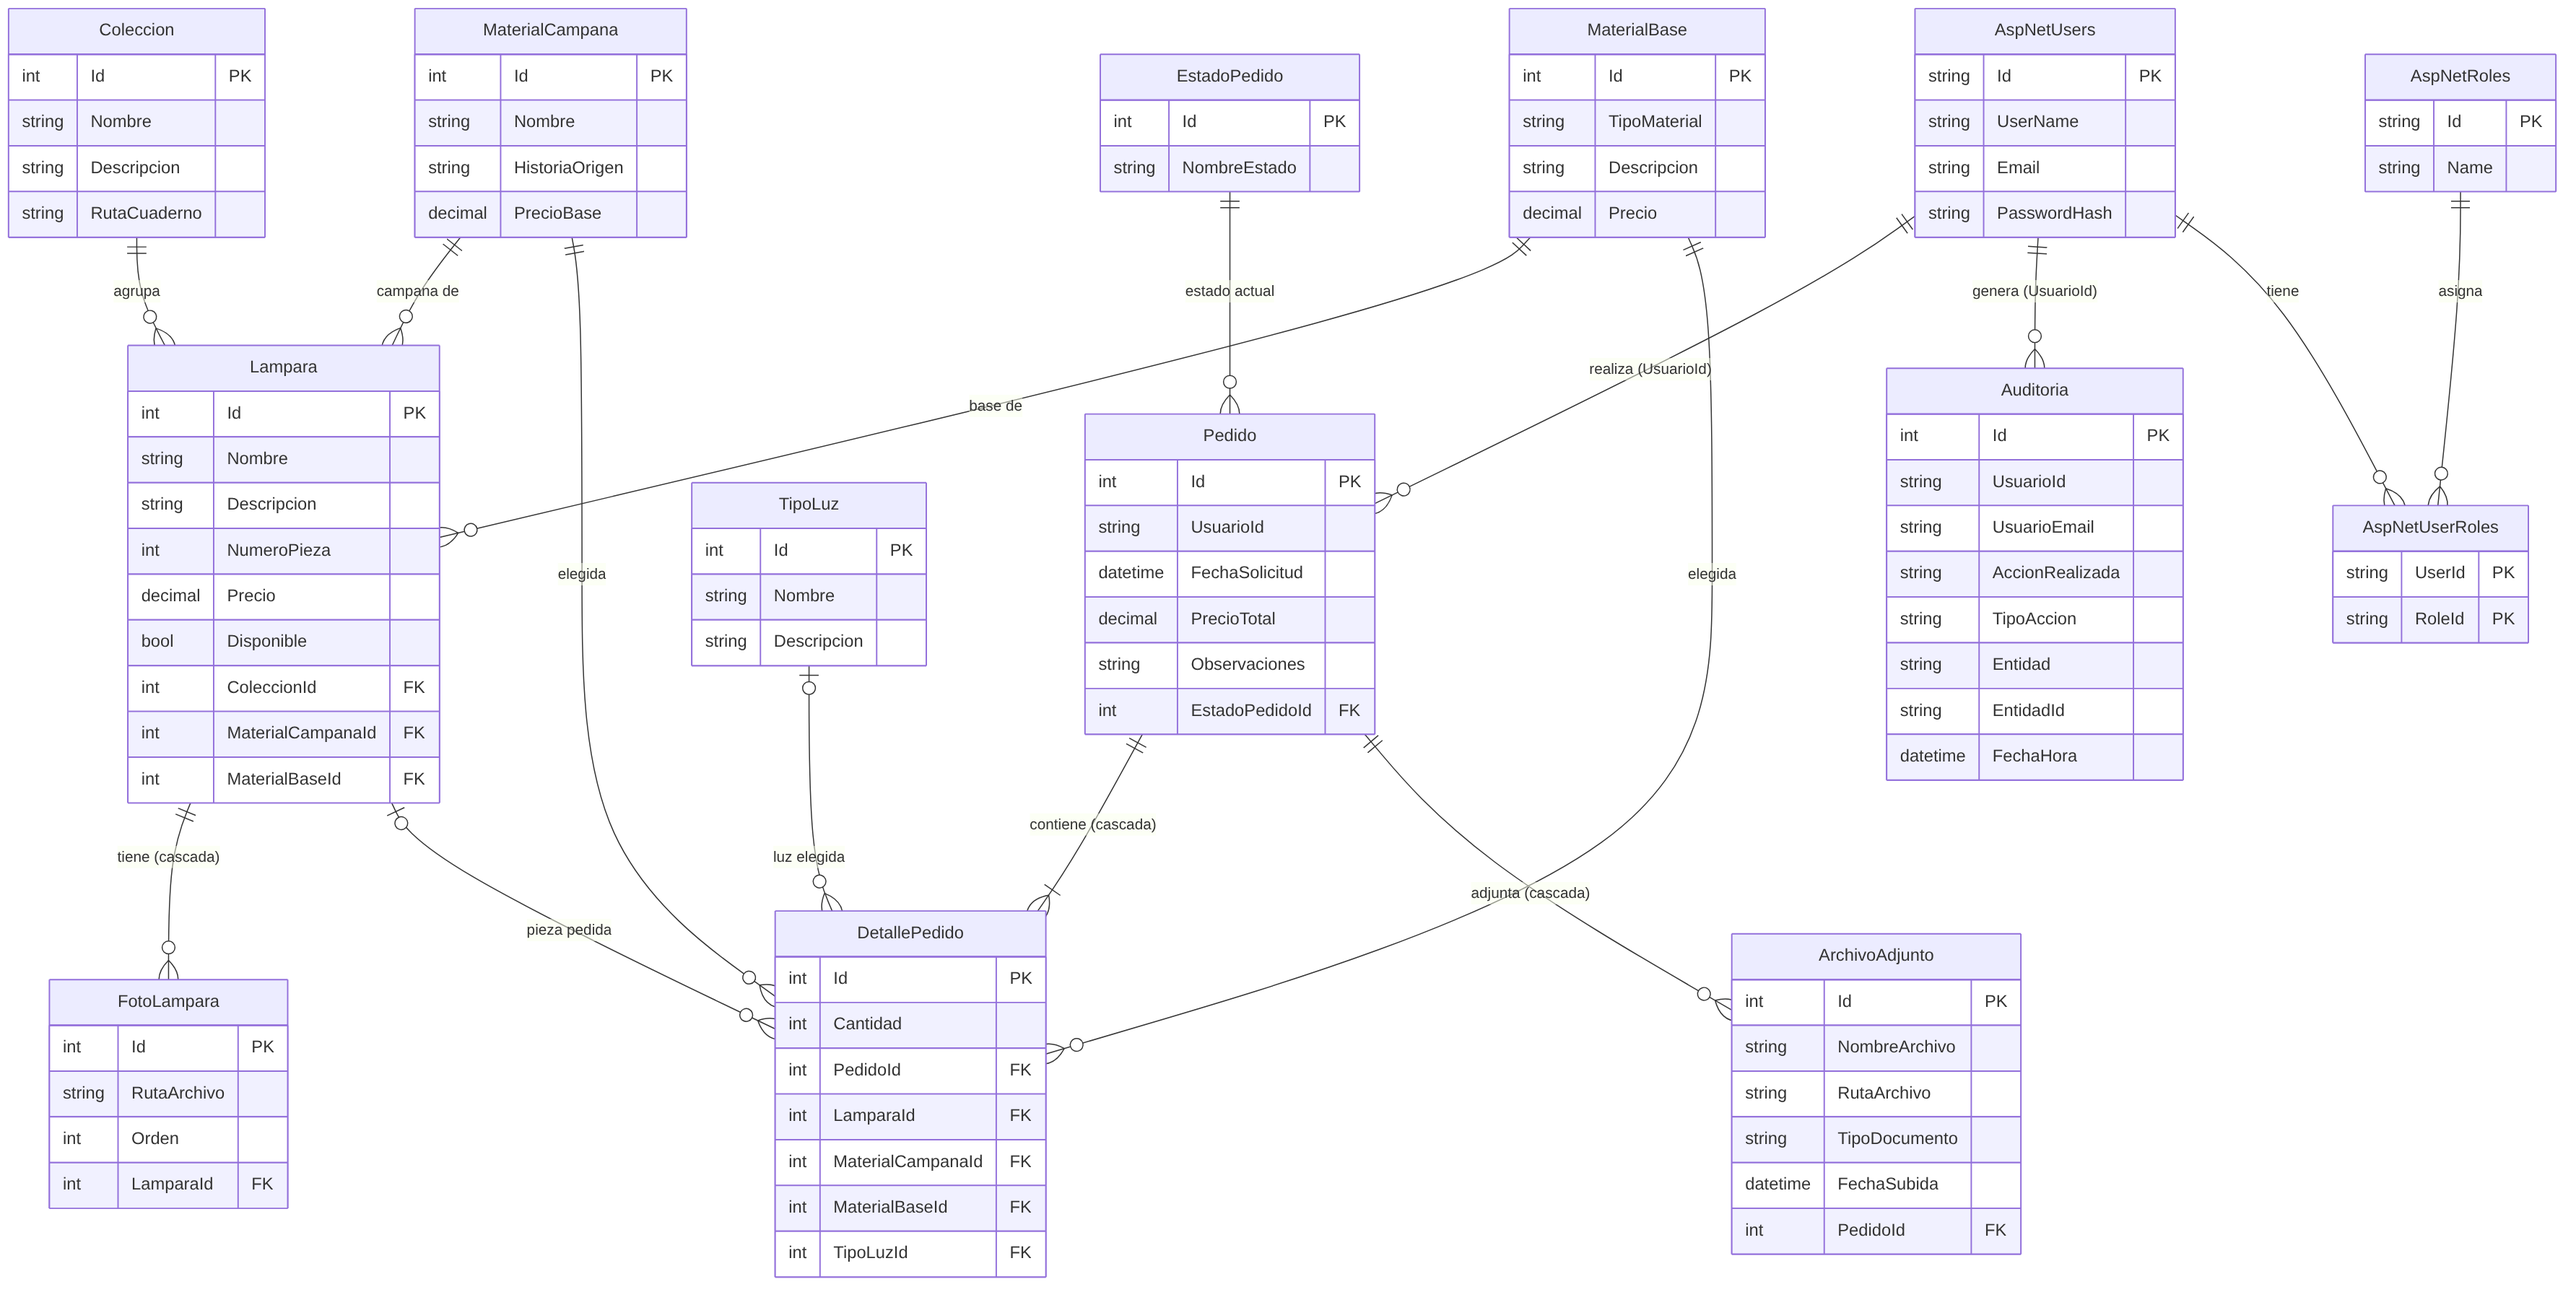
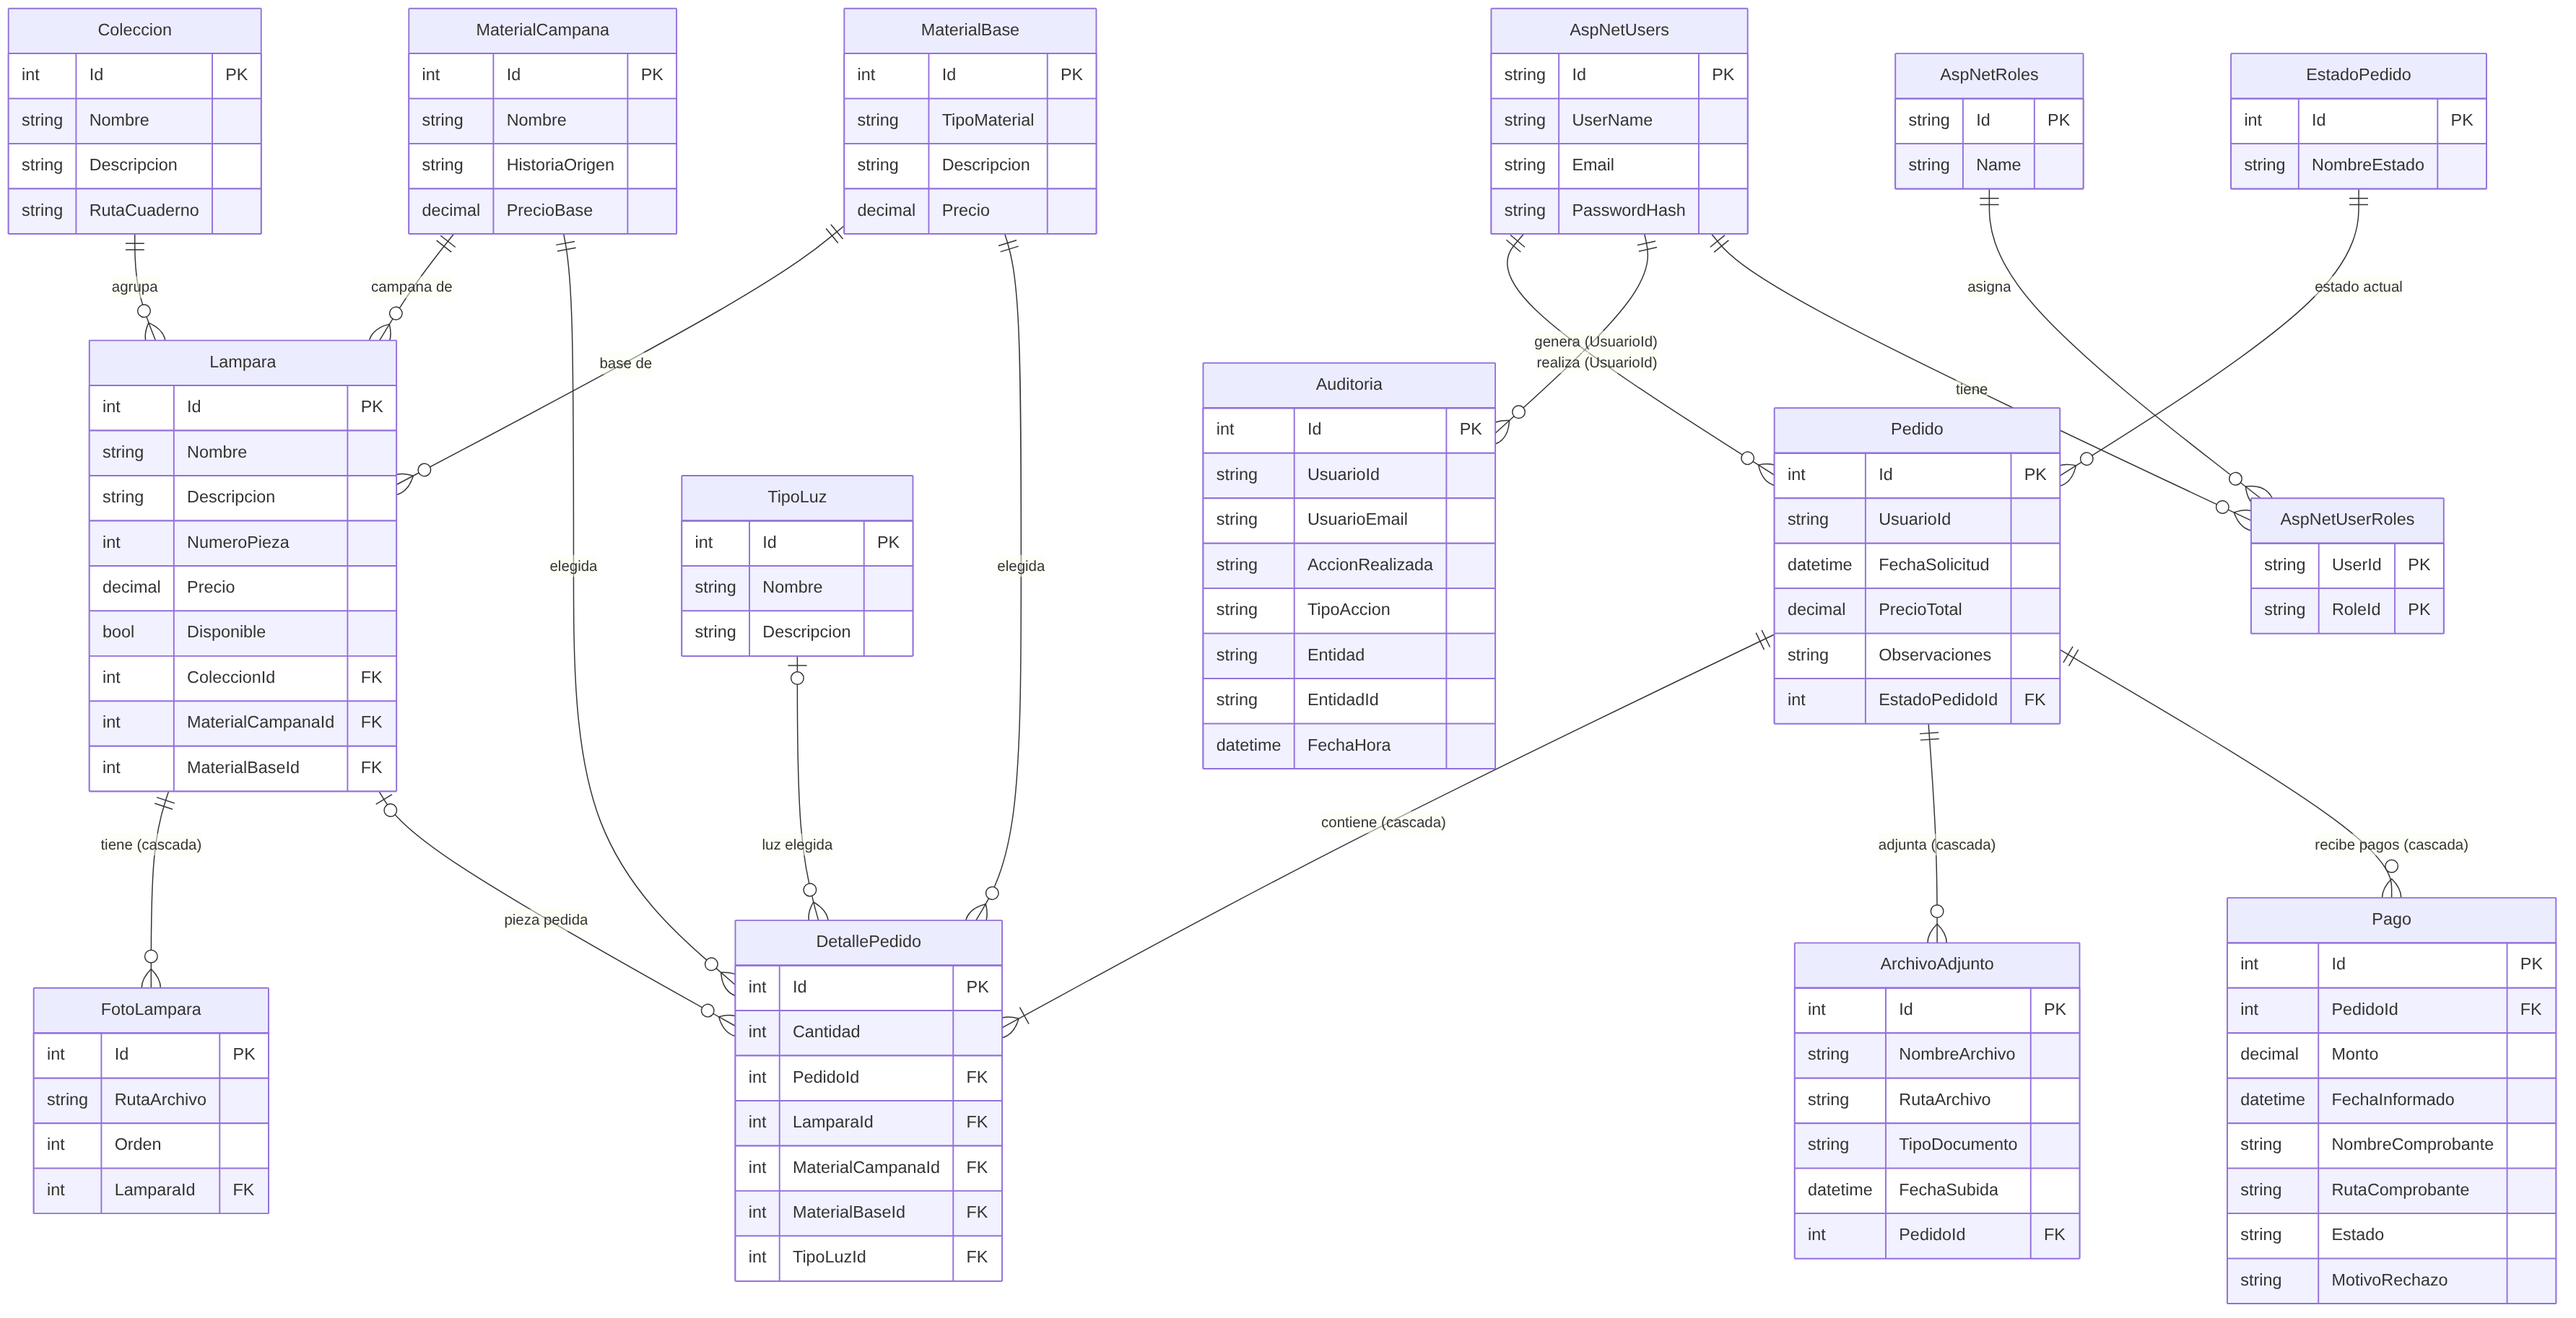
DER y README actualizados con pagos, panel y reporte con IA

diff --git a/README.md b/README.md
@@ -1,6 +1,6 @@
 # Alma del Mar Pampeano
 
-Aplicación web en **ASP.NET Core MVC (.NET 10)** para una marca de lámparas artesanales de roca, fósil y madera pampeana (La Pampa, Argentina). El visitante recorre un catálogo con las piezas terminadas, el cliente puede pedir una pieza o diseñar una lámpara a medida y seguir el estado de su pedido, y el administrador gestiona el catálogo, los pedidos y la auditoría del sistema.
+Aplicación web en **ASP.NET Core MVC (.NET 10)** para una marca de lámparas artesanales de roca, fósil y madera pampeana (La Pampa, Argentina). El visitante recorre el catálogo, el cliente pide una pieza terminada o diseña una lámpara a medida, informa su pago con un comprobante y sigue el estado del pedido. El administrador gestiona el catálogo, los pedidos, los pagos y los usuarios, y cuenta con un panel de estadísticas con un reporte redactado por IA.
 
 > Trabajo Final Integrador — ASP.NET Core MVC.
 
@@ -12,27 +12,29 @@ Aplicación web en **ASP.NET Core MVC (.NET 10)** para una marca de lámparas ar
 - ASP.NET Core MVC + Razor (.NET 10), Bootstrap 5, jQuery Validation, SweetAlert2
 - Entity Framework Core (Code First, migraciones) sobre **SQL Server**
 - ASP.NET Core Identity con roles (`Administrador`, `Cliente`)
-- Chatbot con la API de Gemini (Google)
+- API de Google Gemini (asistente virtual y reporte para el administrador)
 
 ## Funcionalidades
 
 ### Para cualquier visitante
 - **Inicio** con portada, colecciones, un adelanto de lámparas y los cuadernos de colección (PDF).
 - **Página de lámparas** con todas las piezas, filtro por colección y fotos en carrusel.
-- **Lumi**, el asistente virtual: responde dudas sobre la marca, las colecciones y cómo pedir.
+- **Lumi**, el asistente virtual flotante: responde dudas sobre la marca, las colecciones, los precios y cómo pedir, usando los datos reales del catálogo.
 
 ### Para el cliente
-- Registro e ingreso en español (quien se registra recibe el rol Cliente).
-- **Pedir una pieza del catálogo** (precio y materiales salen de la pieza) o **diseñar una lámpara a medida** eligiendo campana, base y tipo de luz. Un pedido corresponde a una lámpara.
-- Adjuntar imágenes de referencia (JPG, PNG o PDF, hasta 5 MB).
-- Ver "Mis pedidos", con una barra de avance y un mensaje que explica qué pasa en cada estado.
-- Editar las notas y **cancelar** el pedido mientras esté en estado *Pendiente*.
-- Cambiar su contraseña.
+- Registro e ingreso en español (quien se registra recibe el rol Cliente) y cambio de contraseña.
+- **Pedir una pieza del catálogo** (viene definida: se confirma con notas opcionales) o **diseñar una lámpara a medida** eligiendo campana, base, tipo de luz y cantidad. Un pedido corresponde a una lámpara.
+- **Reserva automática:** al pedir una pieza única, deja de estar disponible para los demás; si el pedido se cancela, vuelve a estarlo.
+- "Mis pedidos" con barra de avance y un mensaje que explica qué pasa en cada estado.
+- Editar las notas y **cancelar** el pedido mientras esté *Pendiente*.
+- **Pago por transferencia:** ve el alias, el titular y la seña sugerida, e informa el pago subiendo el **comprobante**. Ve si fue confirmado o rechazado (con el motivo) y cuánto falta pagar.
 
 ### Para el administrador
 - ABM de **lámparas** (con varias fotos), campanas, bases y estados de pedido.
 - Ver todos los pedidos, filtrarlos por estado y **cambiar su estado**.
-- Subir archivos al pedido (comprobantes, presupuestos).
+- **Revisar pagos:** ver el comprobante y confirmarlo o rechazarlo con un motivo. También puede registrar un pago recibido en mano.
+- **Panel de estadísticas:** pedidos por estado, ventas estimadas, lo cobrado, pagos por revisar, colecciones y campanas más elegidas y actividad reciente, con filtro por período.
+- **Reporte con IA:** un botón que genera un informe ejecutivo en lenguaje natural a partir de los números del panel.
 - **Gestión de usuarios:** asignar una contraseña temporal a un cliente que la olvidó.
 - **Auditoría:** consulta de todas las altas, modificaciones y bajas, con usuario y fecha.
 
@@ -40,8 +42,8 @@ Aplicación web en **ASP.NET Core MVC (.NET 10)** para una marca de lámparas ar
 | Rol | Puede |
 |---|---|
 | Visitante | Ver el catálogo, las colecciones y los cuadernos; usar el chatbot |
-| Cliente | Todo lo anterior + pedir, ver y cancelar **sus** pedidos, subir archivos, cambiar su contraseña |
-| Administrador | Gestionar el catálogo, los pedidos de todos los clientes, los usuarios y consultar la auditoría |
+| Cliente | Todo lo anterior + pedir, ver y cancelar **sus** pedidos, informar pagos, subir archivos, cambiar su contraseña |
+| Administrador | Gestionar el catálogo, los pedidos y pagos de todos los clientes, los usuarios, el panel y la auditoría |
 
 ## Credenciales de prueba
 | Rol | Usuario | Contraseña |
@@ -49,17 +51,22 @@ Aplicación web en **ASP.NET Core MVC (.NET 10)** para una marca de lámparas ar
 | Administrador | admin@almapampeana.com | Admin123! |
 | Cliente | cliente@almapampeana.com | Cliente123! |
 
+> Los datos para pagar que muestra el sitio (alias y titular) son **de prueba**.
+
 ## Seguridad y buenas prácticas
-- **ViewModels** en todos los formularios: se reciben solo los campos permitidos (no hay *overposting*).
-- **El precio lo calcula siempre el servidor**; nunca se toma del formulario.
+- **ViewModels** en los formularios principales: se reciben solo los campos permitidos (no hay *overposting*).
+- **El precio lo calcula siempre el servidor**; nunca se toma del formulario. El monto de un pago se valida en formato argentino y no puede superar lo que falta pagar.
 - Cada pedido se obtiene con un único punto de acceso que verifica el dueño: un cliente no puede ver ni modificar pedidos ajenos, ni siquiera cambiando la URL.
 - Controladores de administración protegidos con `[Authorize(Roles = "Administrador")]`.
 - Token antifalsificación (`[ValidateAntiForgeryToken]`) en todos los POST.
 - Archivos subidos: extensión validada, tamaño máximo y nombre generado por el servidor (GUID).
-- Claves foráneas `Restrict` en los datos del catálogo: no se puede borrar algo que está en uso (por ejemplo, una lámpara con pedidos), y la app lo explica con un mensaje claro.
-- **Auditoría automática** en `SaveChangesAsync` de cada entidad relevante.
-- Límite de pedidos por minuto al chatbot (*rate limiting*).
+- **Los comprobantes de pago no son públicos:** se guardan fuera de `wwwroot` y se entregan por una acción que verifica que quien los pide sea el dueño del pedido o el administrador.
+- Claves foráneas `Restrict` en los datos del catálogo (no se puede borrar algo en uso, y la app lo explica) y `Cascade` en lo que pertenece a un pedido o a una lámpara.
+- **Auditoría automática** en `SaveChangesAsync` de cada entidad relevante, incluidos los pagos.
+- Límite de consultas por minuto al chatbot y al reporte de IA (*rate limiting*).
+- A la IA solo se le envía información pública del catálogo y cifras agregadas: nunca correos ni datos de clientes.
 - La clave de Gemini **no está en el repositorio** (ver más abajo).
+- Páginas de error propias (404, 403) que conservan el código HTTP real.
 
 ## Cómo ejecutarlo en local
 1. Requisitos: **.NET 10 SDK** y SQL Server (LocalDB alcanza).
@@ -76,17 +83,21 @@ dotnet user-secrets set "Gemini:ApiKey" "TU_CLAVE"
 
 En el servidor, la clave va en un archivo `appsettings.Production.json` que **no está versionado**. Los nombres de los modelos se configuran en `appsettings.json` (`Gemini:Model` y `Gemini:ModelosAlternativos`); si el modelo principal falla, el servicio reintenta con los alternativos.
 
-## Modelo de datos
-Entidades principales: `Coleccion`, `Lampara`, `FotoLampara`, `MaterialCampana`, `MaterialBase`, `TipoLuz`, `Pedido`, `DetallePedido`, `ArchivoAdjunto`, `EstadoPedido` y `Auditoria`, además de las tablas de Identity.
+### Otros ajustes en `appsettings.json`
+- `Pago`: `Alias`, `Titular` y `PorcentajeSena` (porcentaje sugerido como seña). Hoy tienen valores de prueba.
+- `Contacto`: `Instagram`, `WhatsApp`, `Correo` y `Ciudad`. Los que están vacíos no se muestran en el pie de página.
 
-Un `Pedido` pertenece a un usuario y tiene un estado. Su `DetallePedido` indica la campana, la base y el tipo de luz, y apunta a la `Lampara` del catálogo cuando se pidió una pieza terminada (queda vacío en las lámparas a medida).
+## Modelo de datos
+12 tablas propias, además de las de Identity: `Coleccion`, `Lampara`, `FotoLampara`, `MaterialCampana`, `MaterialBase`, `TipoLuz`, `EstadoPedido`, `Pedido`, `DetallePedido`, `ArchivoAdjunto`, `Pago` y `Auditoria`.
+
+Un `Pedido` pertenece a un usuario y tiene un estado. Su `DetallePedido` indica la campana, la base y el tipo de luz, y apunta a la `Lampara` del catálogo cuando se pidió una pieza terminada (queda vacío en las lámparas a medida). Cada `Pago` informado cuelga del pedido y guarda su comprobante y su estado (pendiente de revisión, confirmado o rechazado).
 
 ![Diagrama entidad-relación](docs/DER.png)
 
 ## Estructura
 - `Models/` entidades de la base de datos
-- `ViewModels/` modelos de entrada y de vista (evitan recibir campos que el usuario no debe tocar)
-- `Controllers/` lógica MVC
+- `ViewModels/` modelos de entrada y de vista
+- `Controllers/` lógica MVC (catálogo, pedidos y pagos, panel, chat, administración)
 - `Services/` integración con Gemini
 - `Data/` `ApplicationDbContext` (con la auditoría automática) y `DbInitializer`
 - `Areas/Identity/` pantallas de ingreso y registro
@@ -94,5 +105,6 @@ Un `Pedido` pertenece a un usuario y tiene un estado. Su `DetallePedido` indica 
 - `wwwroot/` estilos, scripts, imágenes y archivos subidos
 
 ## Próximos pasos
-- Registro de pagos (seña) y cobro con Mercado Pago.
-- Enviar avisos por correo cuando cambia el estado del pedido.
+- Cobro con Mercado Pago.
+- Avisos por correo cuando cambia el estado del pedido.
+- Pruebas automáticas y pipeline de integración continua.
